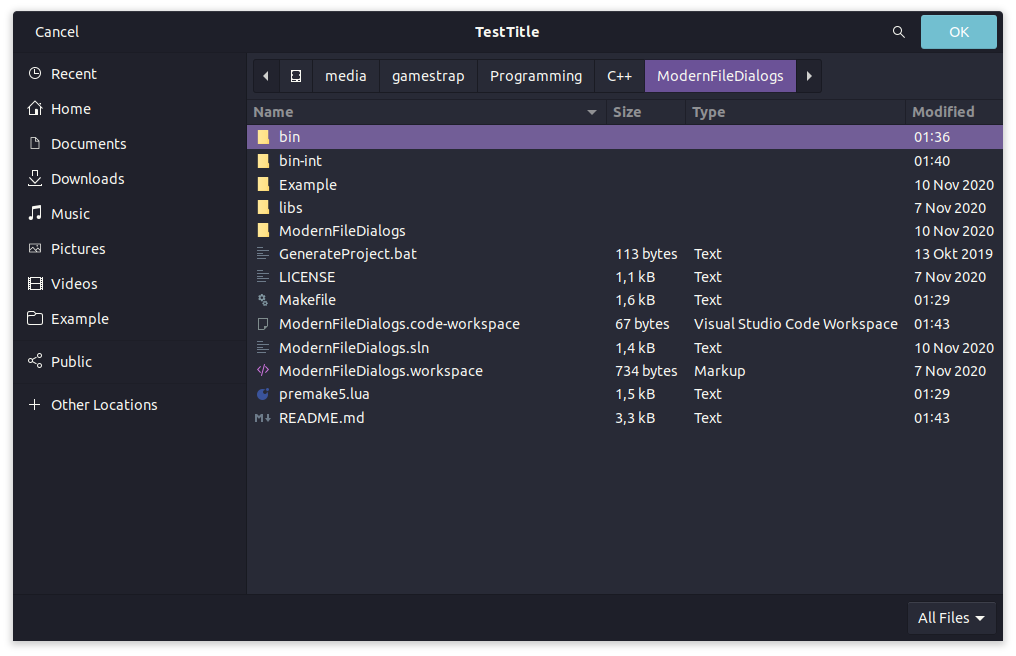
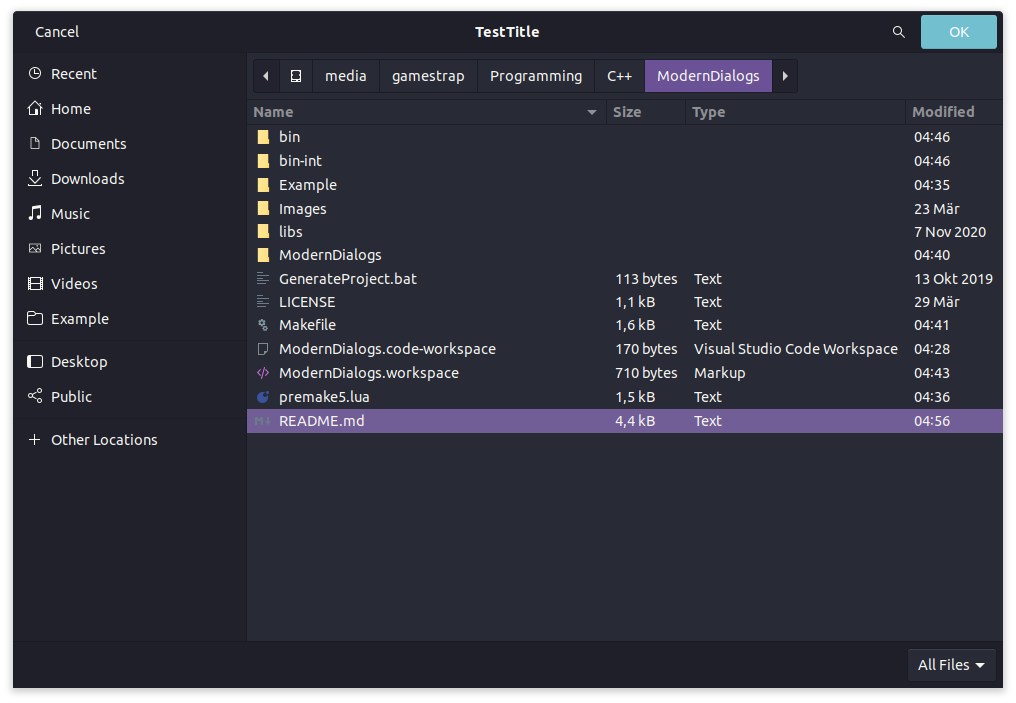
Updated CI, Screenshots (Linux), README

diff --git a/Example/main.cpp b/Example/main.cpp
@@ -66,6 +66,9 @@ std::string PrintSelection(const MD::Selection selection)
 
 int main()
 {
+	//TODO What happens when no usable package was found on linux?!
+	//TODO What happens when empty strings are provided?!
+
 #ifdef SaveFileExamples
 	std::cout << MD::SaveFile("TestTitle") << std::endl;
 	std::cout << MD::SaveFile("TestTitle", "TestFile.Test") << std::endl;

diff --git a/README.md b/README.md
@@ -13,7 +13,25 @@ ModernDialogs (Cross-platform Linux, Windows C++17)
 OpenFileDialog, SaveFileDialog, SelectFolderDialog & MessageBox  
 Supports ASCII & UTF-8
 
-This README will be updated with more info eventually.
+## Information
+
+### Windows
+
+On Windows ModernDialogs uses the WinAPI for every dialog.
+
+### Linux
+
+On Linux the dialogs are created by using one of the following packages if installed:
+
+- KDialog
+- Zenity
+- MateDialog
+- Shellementary
+- Qarma
+- Yad
+- TKinter3
+
+If none of these packages is installed the functions will return a `MD::Selection::Error`.
 
 ## Screenshots
 
@@ -39,19 +57,22 @@ Ubuntu 20.10 X11 Gnome 3:
 
 OpenFile:
 <br>
-<img alt="OpenFileLinux" src="Images/OpenFileLinux.PNG" width="508px" height="328px">
+<img alt="OpenFileLinux" src="Images/OpenFileLinux.PNG" width="508px" height="352px">
 <br>
 SaveFile:
 <br>
-<img alt="SaveFileLinux" src="Images/SaveFileLinux.PNG" width="508px" height="328px">
+<img alt="SaveFileLinux" src="Images/SaveFileLinux.PNG" width="508px" height="352px">
 <br>
 SelectFolder:
 <br>
-<img alt="SelectFolderLinux" src="Images/SelectFolderLinux.PNG" width="508px" height="328px">
+<img alt="SelectFolderLinux" src="Images/SelectFolderLinux.PNG" width="508px" height="352px">
 <br>
 MessageBox:
 <br>
-TBD
+<img alt="MsgBoxInfoLinux" src="Images/MsgBoxInfoLinux.PNG" width="142px" height="137px">
+<img alt="MsgBoxQuestionLinux" src="Images/MsgBoxQuestionLinux.PNG" width="130px" height="137px">
+<img alt="MsgBoxWarningLinux" src="Images/MsgBoxWarningLinux.PNG" width="160px" height="137px">
+<img alt="MsgBoxErrorLinux" src="Images/MsgBoxErrorLinux.PNG" width="160px" height="137px">
 ## Setup
 
 First clone the repository with `git clone https://github.com/GamesTrap/ModernDialogs`.
